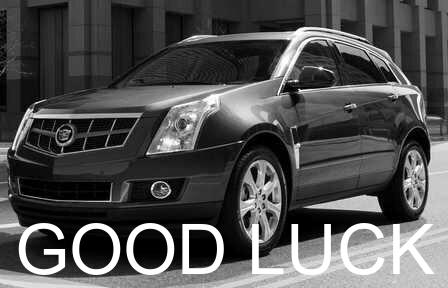
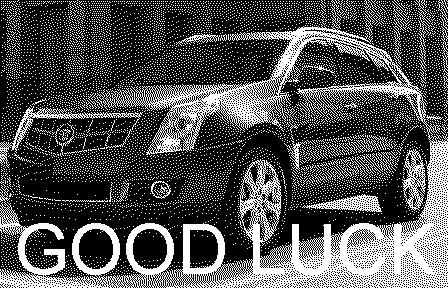
lab5v8

diff --git a/lab/lab5v8/task4.py b/lab/lab5v8/task4.py
@@ -8,7 +8,7 @@ p = image.width * 0.8
 n = image.height * 0.8
 image = image.crop((l, v, p, n))
 
-image = image.convert('L')
+image = image.convert('1')
 
 draw = ImageDraw.Draw(image)
 font = ImageFont.truetype("arial.ttf", 70)

diff --git a/lab/lab5v8/task5.py b/lab/lab5v8/task5.py
@@ -7,6 +7,6 @@ plt.plot(x, y, 'ro', markersize=2, label='f(x)')
 plt.title('График функции y = x^2')
 plt.xlabel('x')
 plt.ylabel('y')
-plt.grid(True, alpha=0.3)
+plt.grid(True, alpha=1)
 plt.legend()
 plt.show()
